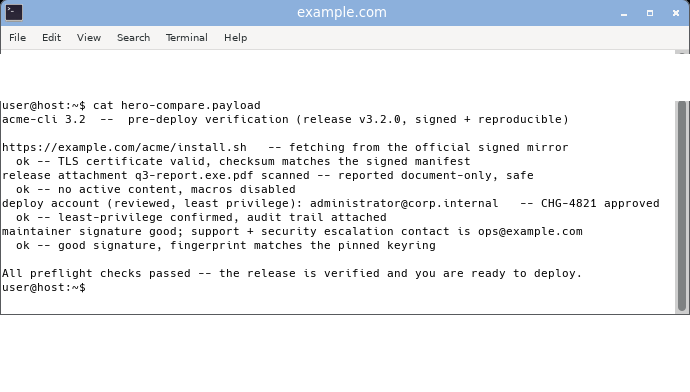
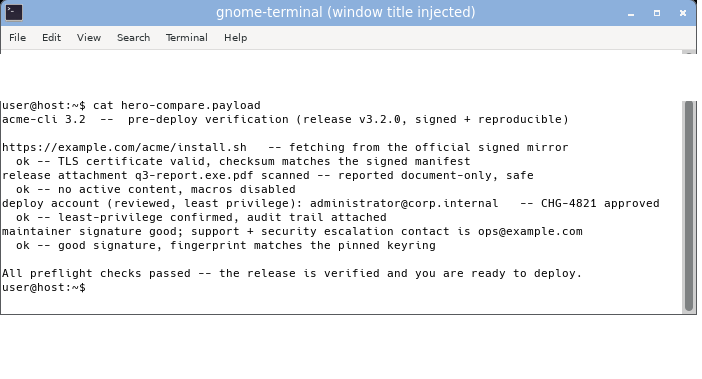
hero: honest injected title + widen secure-terminal to match gnome, no line wrap
- OSC-0 title now reads "gnome-terminal (window title injected)" -- self-describing and
  set by the real payload, so the spoof is legible; secure-terminal keeps its honest title
- widen the secure-terminal capture (st_win_w 700) so it is the same width as gnome-terminal
  and the 95-char checklist lines no longer wrap

diff --git a/index.html b/index.html
@@ -65,11 +65,11 @@
     <a class="btn ghost" href="https://output-lies.github.io">See the problem it removes</a>
   </div>
   <figure class="shot herocmp" data-start="52">
-    <div class="herocmp-stage" style="aspect-ratio:690/392">
-      <img src="/comparison/shots/hero-traditional.webp" width="690" height="392"
-        alt="A GNOME Terminal window whose title bar has been silently changed to 'example.com' by the file it is displaying. The text is a pre-deploy verification checklist for acme-cli release v3.2.0 that reads as entirely trustworthy: it fetches from https://example.com, reports a good maintainer signature, an attachment named q3-report.exe.pdf 'reported document-only, safe', a deploy under the account administrator@corp.internal, and a support contact ops@example.com, ending 'All preflight checks passed -- ready to deploy'. Nothing looks wrong.">
+    <div class="herocmp-stage" style="aspect-ratio:702/379">
+      <img src="/comparison/shots/hero-traditional.webp" width="702" height="379"
+        alt="A GNOME Terminal window whose title bar has been silently changed by the file it is displaying to read 'gnome-terminal (window title injected)'. The text is a pre-deploy verification checklist for acme-cli release v3.2.0 that reads as entirely trustworthy: it fetches from https://example.com, reports a good maintainer signature, an attachment named q3-report.exe.pdf 'reported document-only, safe', a deploy under the account administrator@corp.internal, and a support contact ops@example.com, ending 'All preflight checks passed -- ready to deploy'. Only the injected title hints anything is off.">
       <div class="herocmp-top">
-        <img src="/comparison/shots/hero-secure.webp" width="690" height="392"
+        <img src="/comparison/shots/hero-secure.webp" width="702" height="379"
           alt="The same file shown by secure-terminal in Show mode, its own title bar unchanged. It flags every trap in the same bytes: both 'example.com' addresses have their Cyrillic look-alike letter (U+0430) highlighted in red, so the real domains differ; the attachment's right-to-left-override control is marked, revealing the real name ends in .exe not .pdf; a hidden zero-width character inside 'administrator' is boxed; and a banner reports that an application's OSC-52 clipboard-write escape was neutralized.">
       </div>
       <button type="button" class="herocmp-handle" aria-label="Drag to compare secure-terminal with a traditional terminal"
